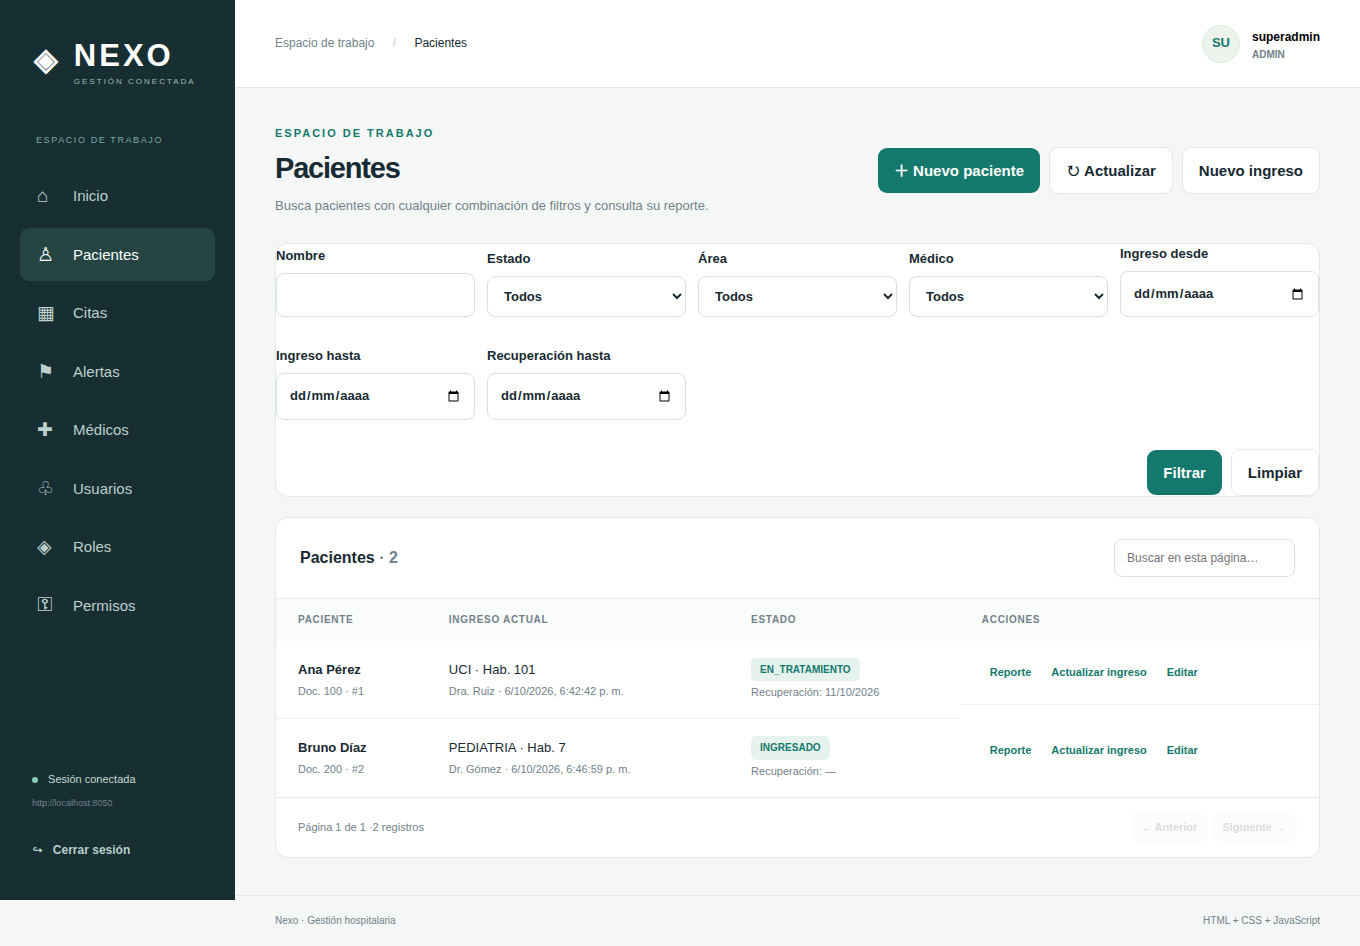
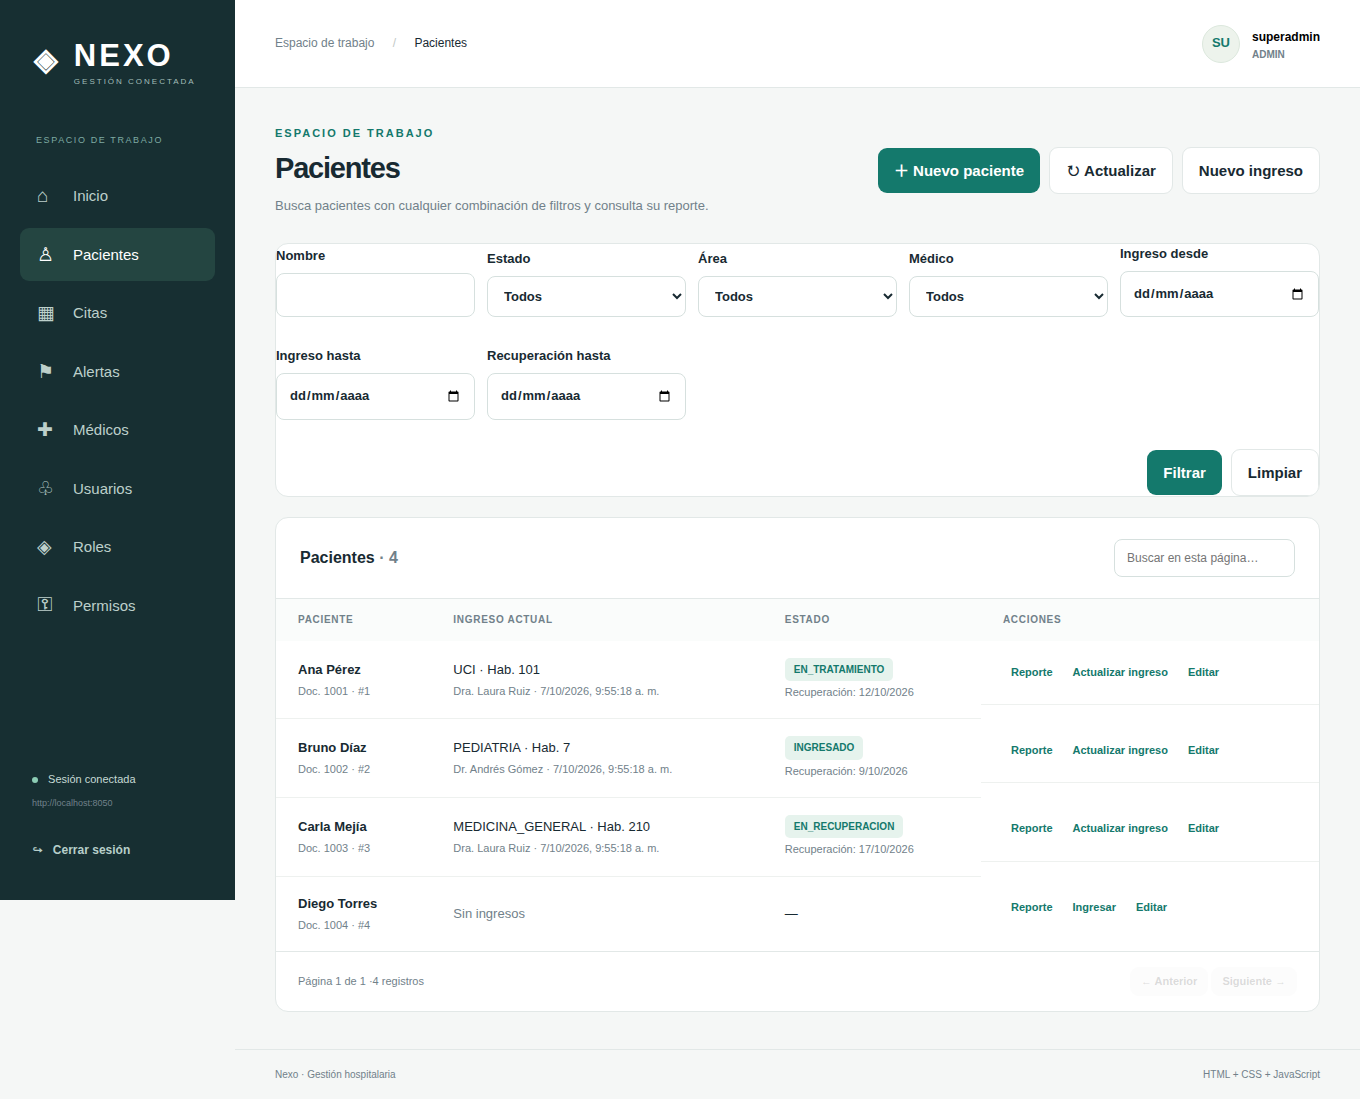
README: arranque con un solo comando y cuentas de demostración
Instrucciones para clonar y ejecutar con docker compose up --build, tabla de
cuentas por rol, flujo de prueba guiado y nueva captura con los datos de demo.

diff --git a/README.md b/README.md
@@ -22,30 +22,47 @@ Basada en la plantilla de seguridad de Cristian Díaz (ver autoría al final).
 
 ## Inicio rápido
 
-Requisitos: JDK 21, Docker y un navegador.
+Solo necesitas **Docker** (no hace falta instalar Java). Desde la raíz del repositorio:
 
 ```bash
-# 1. Base de datos (crea el servidor y la base sistema_gestion_usuarios)
-docker compose up -d
-
-# 2. Backend en http://localhost:8050
-cd spring-security-user-role-management
-./gradlew bootRun                # en Windows: .\gradlew.bat bootRun
-
-# 3. Frontend en http://127.0.0.1:5500 (en otra terminal)
-cd Frontend
-python3 -m http.server 5500 --bind 127.0.0.1
+docker compose up --build
 ```
 
-Entra con `superadmin` / `SuperAdmin123!` (cuenta de desarrollo). Desde
-**Usuarios** crea cuentas con los roles MEDICO, ENFERMERO o RECEPCION. Desde
-**Médicos**, vincula cada cuenta MEDICO a su médico.
+La primera vez tarda unos minutos (descarga imágenes y dependencias). Cuando el
+backend muestre `Started UsermanagementApplication`, abre:
 
 | Recurso | Dirección |
 | --- | --- |
-| Backend | http://localhost:8050 |
+| Frontend | http://localhost:5500 |
 | Swagger UI | http://localhost:8050/swagger-ui.html |
-| Frontend | http://127.0.0.1:5500 |
+| API | http://localhost:8050 |
+
+Al arrancar por primera vez se cargan **datos de demostración**: médicos,
+4 pacientes, ingresos en distintos estados, citas y alertas. Cuentas disponibles:
+
+| Usuario | Contraseña | Rol | Qué ve |
+| --- | --- | --- | --- |
+| `superadmin` | `SuperAdmin123!` | ADMIN | Todo |
+| `druiz` | `Medico123!` | MEDICO | Solo sus 2 pacientes (Ana y Carla) |
+| `dgomez` | `Medico123!` | MEDICO | Solo sus pacientes (Bruno y Diego) |
+| `enfermero` | `Enfermero123!` | ENFERMERO | Pacientes con filtros y alertas |
+| `recepcion` | `Recepcion123!` | RECEPCION | Citas; registra pacientes |
+
+Para detener: `Ctrl+C`, o `docker compose down`. Para borrar también los datos y
+volver a empezar con la demo: `docker compose down -v`.
+
+### Sin Docker para el backend (desarrollo)
+
+Con JDK 21 instalado, puedes levantar solo la base en Docker y el backend con Gradle:
+
+```bash
+docker compose up -d postgres            # PostgreSQL en localhost:5433
+cd spring-security-user-role-management
+./gradlew bootRun                        # en Windows: .\gradlew.bat bootRun
+```
+
+Y servir el frontend con cualquier servidor estático, por ejemplo
+`python3 -m http.server 5500` dentro de `Frontend`.
 
 ## Qué puede hacer cada rol
 
@@ -61,12 +78,13 @@ médicos registran ingresos a su nombre y actualizan su estado.
 
 ## Flujo para probar
 
-1. Como `superadmin`, crea una cuenta MEDICO y un médico vinculado a ella.
-2. Registra un paciente y un ingreso con fecha estimada de recuperación.
-3. Entra como el médico, cambia el estado del ingreso y abre el **Reporte**.
-4. Agenda una cita (como administrador o recepción).
-5. En **Alertas** aparecen el cambio de estado y la cita; márcalas como atendidas.
-6. En **Pacientes**, prueba los filtros, por ejemplo *Recuperación hasta* = hoy + 7 días.
+1. Entra como `druiz`: en **Pacientes** solo aparecen sus pacientes. Abre el
+   **Reporte** de Ana (días transcurridos y restantes, citas, historial).
+2. Cambia el estado del ingreso de Ana con **Actualizar ingreso**.
+3. Entra como `enfermero`: en **Alertas** aparece ese cambio; márcalo como atendido.
+4. Entra como `recepcion`: agenda una cita con el documento `1004` (genera otra alerta).
+5. Como `superadmin`, en **Pacientes** prueba los filtros, por ejemplo
+   *Recuperación hasta* = hoy + 7 días (pacientes próximos a recuperarse).
 
 ## Verificación
 

diff --git a/spring-security-user-role-management/README.md b/spring-security-user-role-management/README.md
@@ -9,19 +9,20 @@ El diseño de los módulos y las decisiones tomadas están en
 
 ## Inicio rápido
 
-Requisitos: JDK 21 y Docker (o un PostgreSQL propio). Gradle Wrapper incluido.
+Todo con Docker, desde la raíz del repositorio: `docker compose up --build`
+(ver el [README principal](../README.md)).
+
+Para desarrollar con JDK 21:
 
 ```bash
-# Desde la raíz del repositorio: PostgreSQL con la base ya creada
-docker compose up -d
-
-# Backend (perfil dev, puerto 8050)
-cd spring-security-user-role-management
-./gradlew bootRun          # en Windows: .\gradlew.bat bootRun
+docker compose up -d postgres   # desde la raíz: PostgreSQL en localhost:5433
+./gradlew bootRun               # en Windows: .\gradlew.bat bootRun
 ```
 
 Hibernate crea las tablas al arrancar (`ddl-auto=update`). El bootstrap crea los
-roles, los permisos y la cuenta inicial `superadmin` / `SuperAdmin123!` (solo en dev).
+roles, los permisos y la cuenta `superadmin` / `SuperAdmin123!`. En dev, si la base
+no tiene pacientes, `DatosDemo` carga cuentas de cada rol, médicos, pacientes,
+ingresos y citas (`DEMO_DATA=false` lo desactiva).
 
 | Recurso | Dirección |
 | --- | --- |
@@ -50,6 +51,8 @@ En Swagger ejecuta `POST /api/auth/login`, copia el token (texto) y pégalo en
 | `APP_ZONA_HORARIA` | Zona del hospital (`America/Bogota` por defecto) | No |
 | `BOOTSTRAP_ADMIN_ENABLED`, `ADMIN_USERNAME`, `ADMIN_EMAIL`, `ADMIN_PASSWORD` | Cuenta inicial (en prod desactivada por defecto) | No |
 | `PORT` | Puerto (8050 por defecto) | No |
+| `DEMO_DATA` | Carga datos de demostración en dev (`true` por defecto) | No |
+| `LOGIN_MAX_INTENTOS`, `LOGIN_BLOQUEO` | Límite de intentos de login (5 y `15m`) | No |
 
 Producción: `SPRING_PROFILES_ACTIVE=prod`. Si falta una variable obligatoria,
 la aplicación no arranca. En prod, Swagger y `show-sql` están desactivados.

diff --git a/Frontend/README.md b/Frontend/README.md
@@ -5,6 +5,9 @@ compilación. Se conecta a la API del backend con JWT.
 
 ## Inicio rápido
 
+Con Docker, `docker compose up --build` desde la raíz ya sirve esta carpeta en
+http://localhost:5500. Sin Docker:
+
 1. Arranca PostgreSQL y el backend (ver el [README principal](../README.md)).
 2. Sirve esta carpeta:
 
